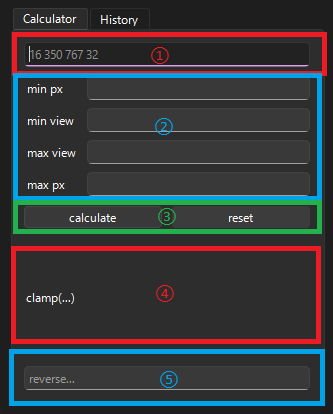
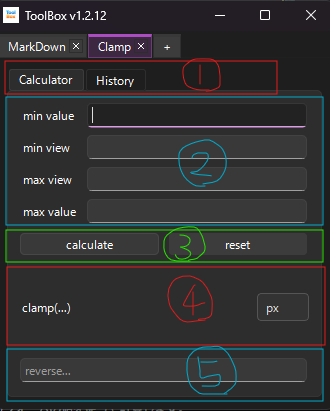
ClampのQuick Input削除、Helpを少し整理。

diff --git a/tools/clamp/calculator.py b/tools/clamp/calculator.py
@@ -37,17 +37,6 @@ class ClampCalculator(QWidget):
     def setup_ui(self):
         layout = QVBoxLayout()
 
-        self.free_box = QFrame()
-        self.free_box.setProperty("state", "normal")
-        free_layout = QVBoxLayout(self.free_box)
-        free_layout.setContentsMargins(0, 0, 0, 0)
-
-        self.free_input = QLineEdit()
-        self.free_input.setPlaceholderText("16 350 767 32")
-        self.free_input.setClearButtonEnabled(True)
-        free_layout.addWidget(self.free_input)
-        layout.addWidget(self.free_box)
-
         self.form_box = QFrame()
         self.form_box.setProperty("state", "normal")
         form_layout = QFormLayout(self.form_box)
@@ -186,16 +175,13 @@ class ClampCalculator(QWidget):
         self.result_label.mousePressEvent = lambda e: self.copy_result()
         self.unit_toggle.currentIndexChanged.connect(self.toggle_result_unit)
 
-        self.free_input.installEventFilter(self)
         for widget in (self.min_px, self.max_px, self.min_view, self.max_view):
             widget.installEventFilter(self)
         self.reverse_input.installEventFilter(self)
 
     def eventFilter(self, obj, event):
         if event.type() == QEvent.FocusIn:
-            if obj == self.free_input:
-                self.set_last("free")
-            elif obj in (self.min_px, self.max_px, self.min_view, self.max_view):
+            if obj in (self.min_px, self.max_px, self.min_view, self.max_view):
                 self.set_last("form")
             elif obj == self.reverse_input:
                 self.set_last("reverse")
@@ -213,9 +199,7 @@ class ClampCalculator(QWidget):
 
     def handle_enter(self):
         focus = self.focusWidget()
-        if focus == self.free_input:
-            self.free_exe()
-        elif focus in (self.min_px, self.max_px, self.min_view, self.max_view):
+        if focus in (self.min_px, self.max_px, self.min_view, self.max_view):
             self.form_exe()
         elif focus == self.reverse_input:
             self.reverse_exe()
@@ -229,10 +213,8 @@ class ClampCalculator(QWidget):
     def calc_exe(self):
         if self.last_edited == "reverse":
             self.reverse_exe()
-        elif self.last_edited == "form":
-            self.form_exe()
         else:
-            self.free_exe()
+            self.form_exe()
 
     def flash_box(self, box: QFrame):
         box.setProperty("state", "active")
@@ -244,26 +226,6 @@ class ClampCalculator(QWidget):
         box.setProperty("state", "normal")
         box.style().unpolish(box)
         box.style().polish(box)
-
-    def free_exe(self):
-        self.flash_box(self.free_box)
-        text = self.free_input.text().strip()
-        if not text:
-            self.error_result("textが入力されてません")
-            return
-
-        normalized = text.replace(",", " ").replace("~", " ").replace("～", " ").replace("　", " ")
-        parts = normalized.split()
-        if len(parts) != 4:
-            self.error_result("textの形式が正しくありません（例: 16 350 767 32）")
-            return
-
-        min_value, min_view, max_view, max_value = parts
-        self.min_px.setText(min_value)
-        self.max_px.setText(max_value)
-        self.min_view.setText(min_view)
-        self.max_view.setText(max_view)
-        self.form_exe()
 
     def form_exe(self):
         self.flash_box(self.form_box)
@@ -408,7 +370,6 @@ class ClampCalculator(QWidget):
         self.result_label.style().polish(self.result_label)
 
     def reset_all(self):
-        self.free_input.clear()
         self.min_px.clear()
         self.max_px.clear()
         self.min_view.clear()
@@ -421,11 +382,11 @@ class ClampCalculator(QWidget):
         self.result_label.style().unpolish(self.result_label)
         self.result_label.style().polish(self.result_label)
 
-        for box in (self.free_box, self.form_box, self.reverse_box):
+        for box in (self.form_box, self.reverse_box):
             self._reset_box_state(box)
 
         self.last_edited = None
-        self.free_input.setFocus()
+        self.min_px.setFocus()
         if hasattr(self.tool, "_save_state"):
             self.tool._save_state()
 

diff --git a/tools/clamp/tool.py b/tools/clamp/tool.py
@@ -36,7 +36,6 @@ class Tab(ToolBase):
 
     def _connect_state_sync(self):
         for widget in (
-            self.calculator.free_input,
             self.calculator.min_px,
             self.calculator.min_view,
             self.calculator.max_view,
@@ -48,7 +47,6 @@ class Tab(ToolBase):
 
     def _restore_state(self):
         state = self.load_state()
-        self.calculator.free_input.setText(state.get("free_input", ""))
         self.calculator.min_px.setText(state.get("min_px", ""))
         self.calculator.min_view.setText(state.get("min_view", ""))
         self.calculator.max_view.setText(state.get("max_view", ""))
@@ -61,7 +59,6 @@ class Tab(ToolBase):
     def _save_state(self, *_):
         self.save_state(
             {
-                "free_input": self.calculator.free_input.text(),
                 "min_px": self.calculator.min_px.text(),
                 "min_view": self.calculator.min_view.text(),
                 "max_view": self.calculator.max_view.text(),

diff --git a/tools/progress/help/index.md b/tools/progress/help/index.md
@@ -1,0 +1,70 @@
+# Progress Help
+
+CSS の進捗値に応じて値を変化させる `clamp(...)` / `calc(...)` コードを作るツールです。
+スクロール進捗やアニメーション進捗など、1 つの変数を基準にサイズ・位置・透明度などを補間したいときに使います。
+
+## 基本の流れ
+
+1. `segments` の表に変数名、進捗範囲、値の範囲を入力する
+2. `code` に生成された CSS を確認する
+3. `code` 欄をクリックしてクリップボードへコピーする
+
+入力内容はタブごとに保存されます。
+
+## Segments
+
+1 行が 1 つの変化区間です。
+空欄のままにした項目は、生成時に既定値として扱われます。
+
+- `var`: 進捗を表す CSS カスタムプロパティ名。空欄の場合は `--p`
+- `start p`: 変化を開始する進捗値。空欄の場合は `0`
+- `end p`: 変化を終了する進捗値。空欄の場合は `1`
+- `start v`: 開始時の値。空欄の場合は `0`
+- `end v`: 終了時の値。空欄の場合は `100`
+
+`start v` と `end v` には `px`、`%`、`rem` などの単位付きの値も入力できます。
+両方の単位が同じ場合は、差分を計算した式として出力されます。
+
+## Segment の追加と削除
+
+- `add segment`: 新しい行を追加します
+- 行を右クリックして `delete segment`: 対象の行を削除します
+
+Segment が 1 行だけの場合は削除できません。
+
+## Code
+
+`segments` を編集すると、下の `code` 欄に CSS が自動生成されます。
+
+- Segment が 1 行の場合は `clamp(...)` を出力します
+- Segment が複数行の場合は、各 Segment の `clamp(...)` を `calc(...)` で合成して出力します
+- `code` 欄をクリックすると、現在のコードをクリップボードへコピーします
+
+`var` に `p` と入力した場合、CSS では `--p` として出力されます。
+`--scroll` のように `--` 付きで入力しても、そのまま CSS カスタムプロパティとして扱われます。
+
+## 履歴
+
+- `履歴を保存`: 現在の Segment と生成コードを履歴に保存します
+- `履歴を表示`: 保存済みの履歴を一覧表示します
+- 履歴項目をクリック: コードをコピーし、その履歴の Segment を現在の表へ戻します
+- 履歴項目を右クリックして削除: 履歴から対象項目を削除します
+
+履歴は最大 50 件まで保存されます。
+
+## Reset
+
+`リセット` は Segment を 1 行の初期状態に戻します。
+履歴は削除されません。
+
+## 例
+
+`--p` が `0` から `1` に進む間に、値を `20px` から `80px` へ変化させたい場合:
+
+- `var`: `p`
+- `start p`: `0`
+- `end p`: `1`
+- `start v`: `20px`
+- `end v`: `80px`
+
+生成されたコードを CSS の値として貼り付けて使います。

diff --git a/tools/clamp/help/index.md b/tools/clamp/help/index.md
@@ -7,26 +7,19 @@ Calculator と History の 2 タブで構成されています。
 
 ![Calculator_SS](calculator.png)
 
-1. ①か②に値を入れてください。
-2. Enterキーを押すか、あるいは③のcalculationをクリックしてください。
+1. ②に値を入れてください。
+2. Enterキーを押すか、あるいは③のcalculateをクリックしてください。
 3. ④に計算結果が表示されます。
 
 ＿
 
 各入力フォームはTab/Shift+Tabで移動可能です。
 
-### ① まとめて入力
+### ① Calculator / History Tab
 
-②のフォームと同じ順で 4 つの値を入力します。
-  
-それぞれの値はスペースかカンマで区切ってください。
-  
-例:
-  
-16,350 767, 32 
+クリックでTabを切り替えます。
 
-
-### ② 個別入力
+### ② Input Form
 
 フォーム毎に値を入力します。
 
@@ -34,7 +27,8 @@ Calculator と History の 2 タブで構成されています。
 
 #### calculation
 
-最後にフォーカスした入力フォームの値を使って計算します。
+最後にフォーカスした入力欄に応じて、Input Form または Reverse を計算します。
+
 
 計算完了時処理
 
@@ -60,7 +54,7 @@ Calculator と History の 2 タブで構成されています。
 
 クリックで再コピーが可能です。
 
-### ⑤ 逆算
+### ⑤ Reverse
 
 下部の `reverse...` に既存の `clamp(...)` を入れると、各値を逆算してフォームへ戻します。
 
@@ -68,5 +62,7 @@ Calculator と History の 2 タブで構成されています。
 
 
 ## History
+
+![History_SS](history.png)
 
 各アイテムをクリックすると、対象の計算結果をコピーしつつ、対応する数値を Calculator に戻します。

diff --git a/tools/markdown/help/index.md b/tools/markdown/help/index.md
@@ -1,4 +1,4 @@
-# MarkDown Help（AI生成）
+# Markdown Help
 
 タブごとに `file.md` を保持する、シンプルな Markdown エディタです。
 
@@ -12,13 +12,16 @@
 
 - `Import`: 既存の `.md` / `.txt` を読み込みます。
 - `Export`: 現在の内容を `.md` として保存します。
-- `font + / font -`: エディタの文字サイズを変更します。
+- ` + / - `: エディタの文字サイズを変更します。
 
 ## ショートカット
+- `Tab`: 選択範囲をインデントする
+- `Shift + Tab`: 選択範囲のインデントを戻す
 
 - `Ctrl + Shift + B`: 選択範囲を太字にする
 - `Ctrl + Shift + I`: 選択範囲を斜体にする
 - `Ctrl + Shift + D`: 選択範囲を強調する
+- `Ctrl + Shift + T`: 選択範囲のインデントとツリー図を切り替える
 - `Ctrl + Shift + C`: コードブロックを挿入する
 - `Ctrl + Shift + K`: リンク記法を挿入する
 - `Ctrl + Shift + L`: 箇条書き記号を切り替える

diff --git a/README.md b/README.md
@@ -1,7 +1,7 @@
 # ToolBox
 
 開発作業やCSS調整などを補助する小型ツールをまとめた
-Windows向けを主対象にしたユーティリティ集です。
+Windows向けユーティリティ集です。
 
 複数のツールをタブで切り替えながら使用できます。
 
@@ -173,7 +173,7 @@ MIT License
 ## 制作経緯
 
 事業所でのclamp計算を楽にしたいという思いから始まり、ついでの機能を構想し、自分用のアプリケーションとして開発しました。
-またポートフォリオとしても活用できるよう、自分以外の使用を想定したHelpの追加やUIの調整、自分のためだけなら過剰だが誰かにとっては必要そうな機能を追加しました。
+またポートフォリオとしても活用できるよう、自分以外の使用を想定したHelpの追加やUIの調整等を行いました。
 
 ## AI
 

diff --git a/tools/clip_path/help/index.md b/tools/clip_path/help/index.md
@@ -1,4 +1,4 @@
-# Clip-Path Help（AI生成）
+# Clip-Path Help
 
 `clip-path: polygon(...)` を視覚的に作るツールです。  
 キャンバス編集、点テーブル編集、履歴保存に対応しています。

diff --git a/tools/clipboard/help/index.md b/tools/clipboard/help/index.md
@@ -1,4 +1,4 @@
-# ClipBoard Help（AI生成）
+# ClipBoard Help
 
 ClipBoard は List ごとに item と text を保持して、クリックで個別コピーできるツールです。
 
